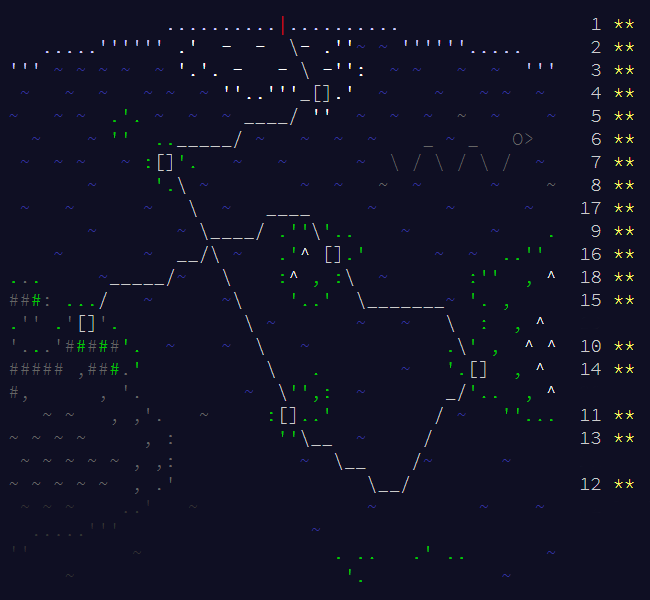
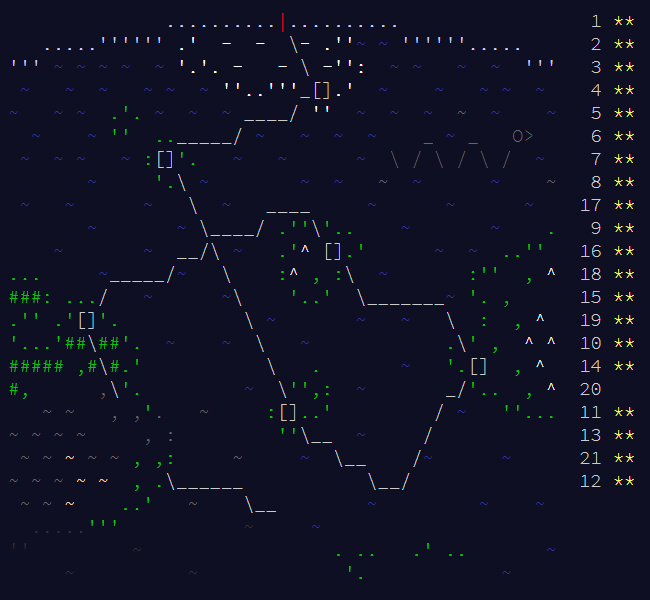
Update README.md
Updated README.md
Updated progress map

diff --git a/README.md b/README.md
@@ -25,13 +25,14 @@ Coded primarily in Python.
 | **16** | [*Ticket Translation*](https://adventofcode.com/2020/day/16) | [Click here](../master/day_16_-_ticket_translation/part_1.py) | [Click here](../master/day_16_-_ticket_translation/part_2.py) |
 | **17** | [*Conway Cubes*](https://adventofcode.com/2020/day/17) | [Click here](../master/day_17_-_conway_cubes/part_1.py) | [Click here](../master/day_17_-_conway_cubes/part_2.py) |
 | **18** | [*Operation Order*](https://adventofcode.com/2020/day/18) | [Click here](../master/day_18_-_operation_order/part_1.py) | [Click here](../master/day_18_-_operation_order/part_2.py) |
-| **19** | [*Monster Messages*](https://adventofcode.com/2020/day/19) | [Click here] | [Click here] |
-| **20** | *...* | [Click here] | [Click here] |
-| **21** | *...* | [Click here] | [Click here] |
-| **22** | *...* | [Click here] | [Click here] |
-| **23** | *...* | [Click here] | [Click here] |
-| **24** | *...* | [Click here] | [Click here] |
-| **25** | *...* | [Click here] | [Click here] |
+| **19** | [*Monster Messages*](https://adventofcode.com/2020/day/19) | [Click here](../master/day_19_-_monster_messages/part_1.py) | [Click here](../master/day_19_-_monster_messages/part_2.py) |
+| **20** | [*Jurrasic Jigsaw*](https://adventofcode.com/2020/day/20) | [Click here] | [Click here] |
+| **21** | [*Allergen Assessment*](https://adventofcode.com/2020/day/21) | [Click here](../master/day_21_-_allergen_assessment/part_1.py) | [Click here](../master/day_21_-_allergen_assessment/part_2.py) |
+| **22** | [*Crab Combat*](https://adventofcode.com/2020/day/22) | [Click here] | [Click here] |
+
+<!-- | **23** | *...* | [Click here] | [Click here] | -->
+<!-- | **24** | *...* | [Click here] | [Click here] | -->
+<!-- | **25** | *...* | [Click here] | [Click here] | -->
 
 # Map
 ![](../master/map.png?raw=true)
